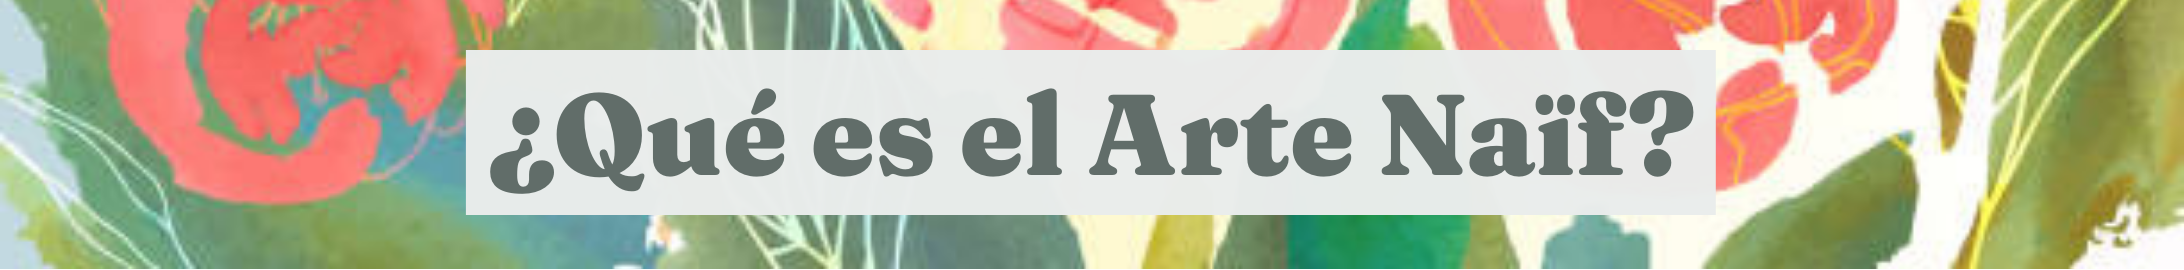
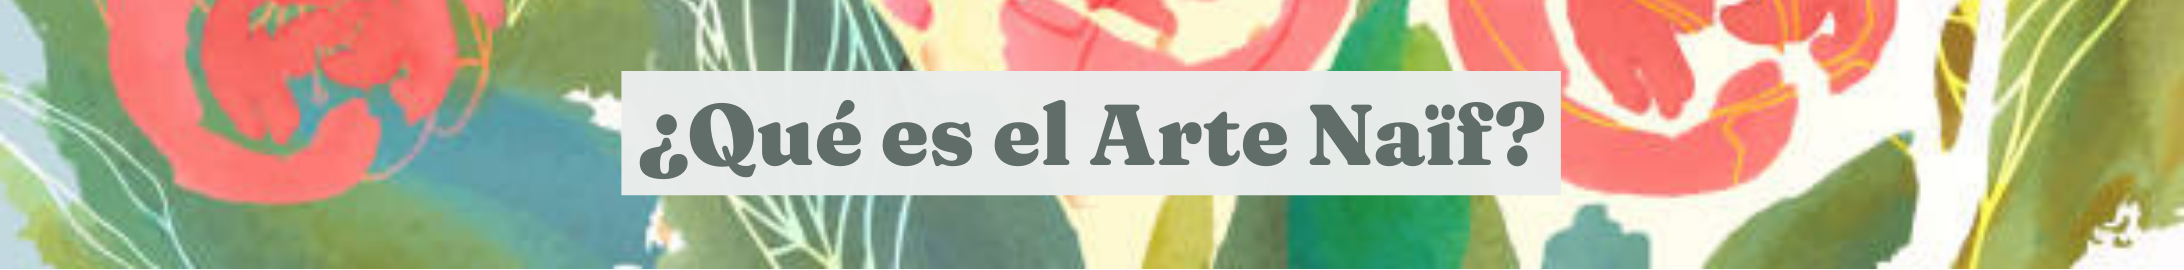
se sube modificacion del proyecto

Changed region(s): [[0.1868, 0.1778, 0.8095, 0.8]]

diff --git a/index.html b/index.html
@@ -189,8 +189,26 @@
         </div>
     </main>
     <div>
-        <p>¿Qué es el Arte Naïf?</p>
-        <p>Es un tipo de arte que nace desde la espontaneidad. Se caracteriza por no regirse por técnicas </p>
+        <div style="background-color: #FFF8D2; padding: 2rem">
+            <div id="catalogo" class="text-sm-center">
+                <img src="assets/images/arte naif.png" alt="banner" width="1200rem">
+            </div>
+            <div class="container" id="inicio" style="padding-top: 2rem;">
+                <div class="row">
+                    <div class="col-sm-6">
+                        <p class="fw-light justify-content-center">Denominación que se aplica a la corriente artística caracterizada por la búsqueda de la candidez y la ingenuidad; por la espontaneidad, el autodidactismo de los artistas, los colores brillantes y antinaturalistas y una perspectiva acientífica.
+
+            El interés por la frescura y el lirismo se desarrolla primero en Francia en los comienzos del siglo XX, de la mano de artistas como Henri Rousseau, que influye en la pintura de Grandma Moses en Estados Unidos y Alfred Wallis en Inglaterra.
+            
+            Los artífices del arte naíf no se dedicaron al arte como actividad principal, sino como una actividad al margen de sus profesiones respectivas. Buscaron huir del academicismo para que lo convencional no les coartase y no concebían el arte como creación trascendente sino como reflejo de despreocupación y serenidad interior.
+            
+            Sus obras se caracterizan por la precisión de sus contornos, la falta de perspectiva, la atención al detalle y un vivo colorido.</p>
+                    </div>
+                    <div class="col-sm-6">
+                        <img src="assets/images/ballenas final.png" alt="ballenas" width="600px">
+                    </div>
+                </div>
+            </div>
     </div>
  <footer id="piedepagina">
     <p>Dónde encontrarnos</p>
